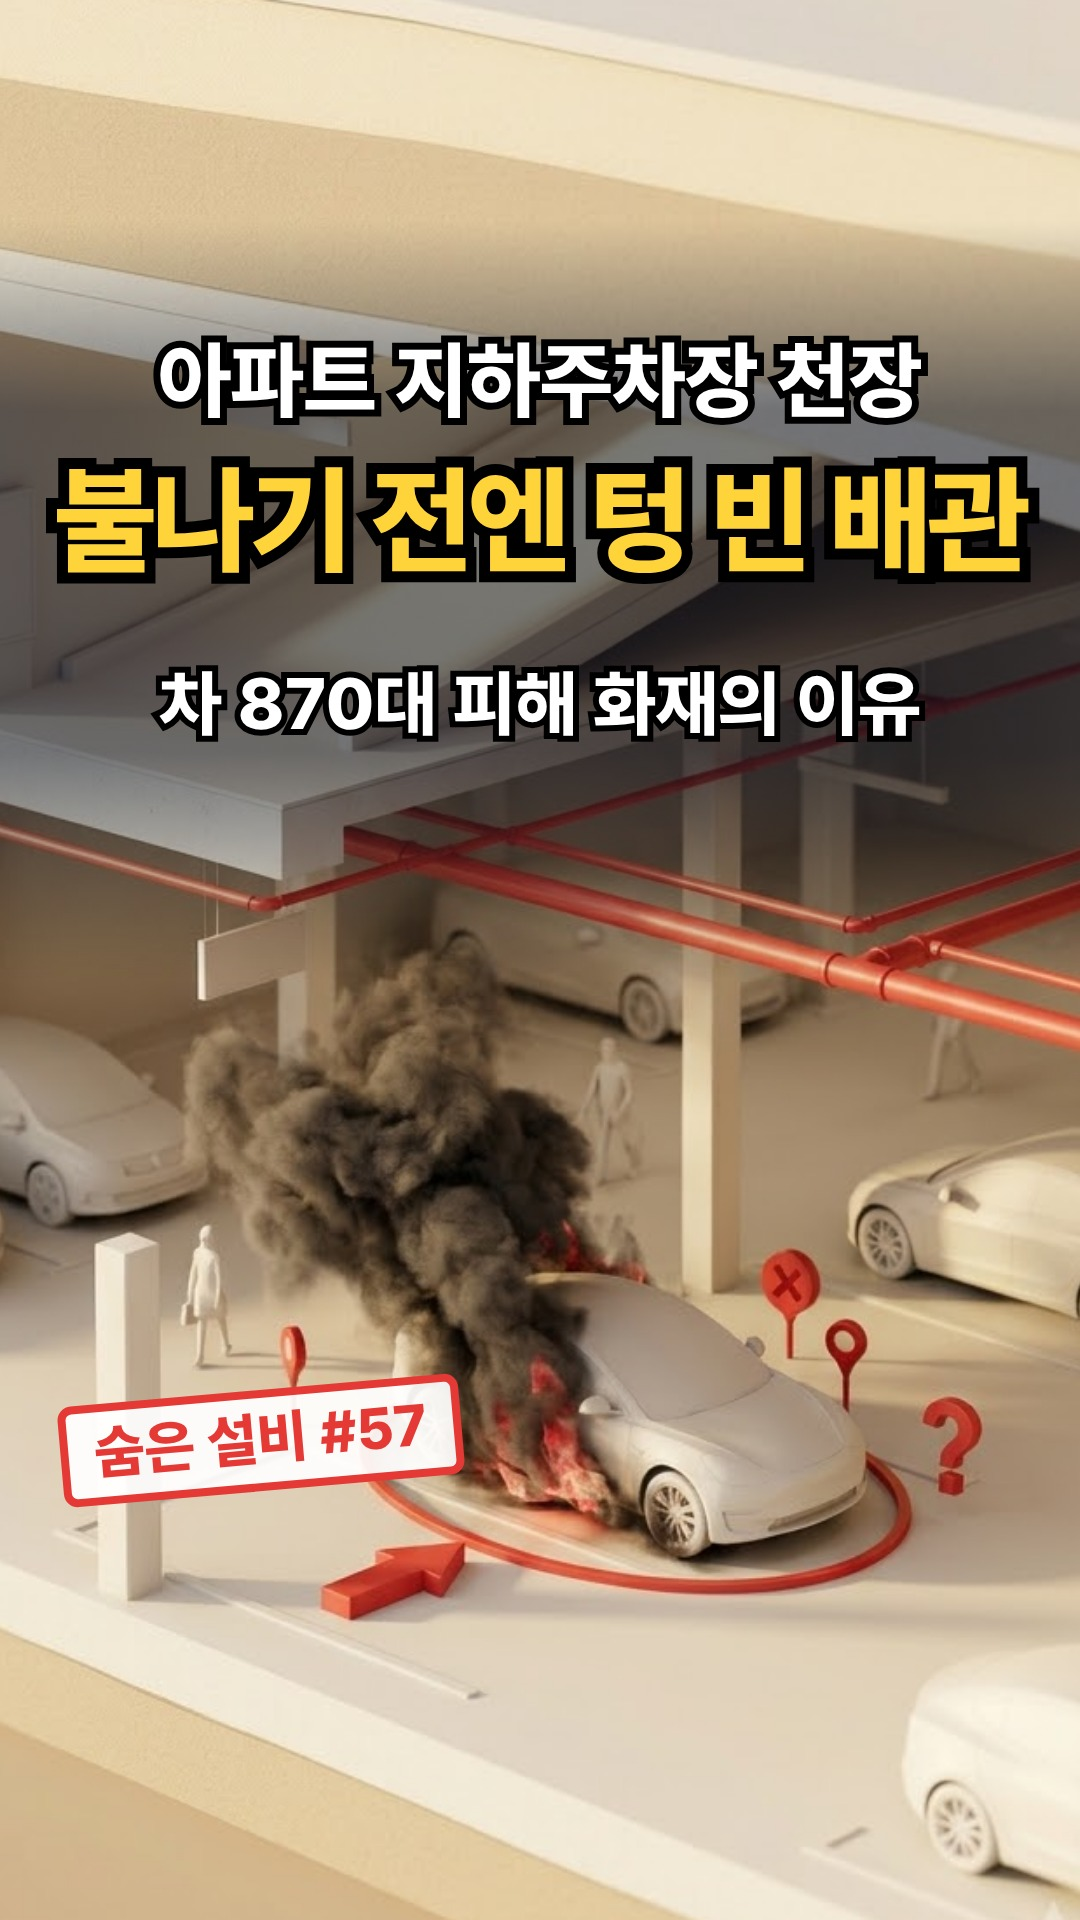
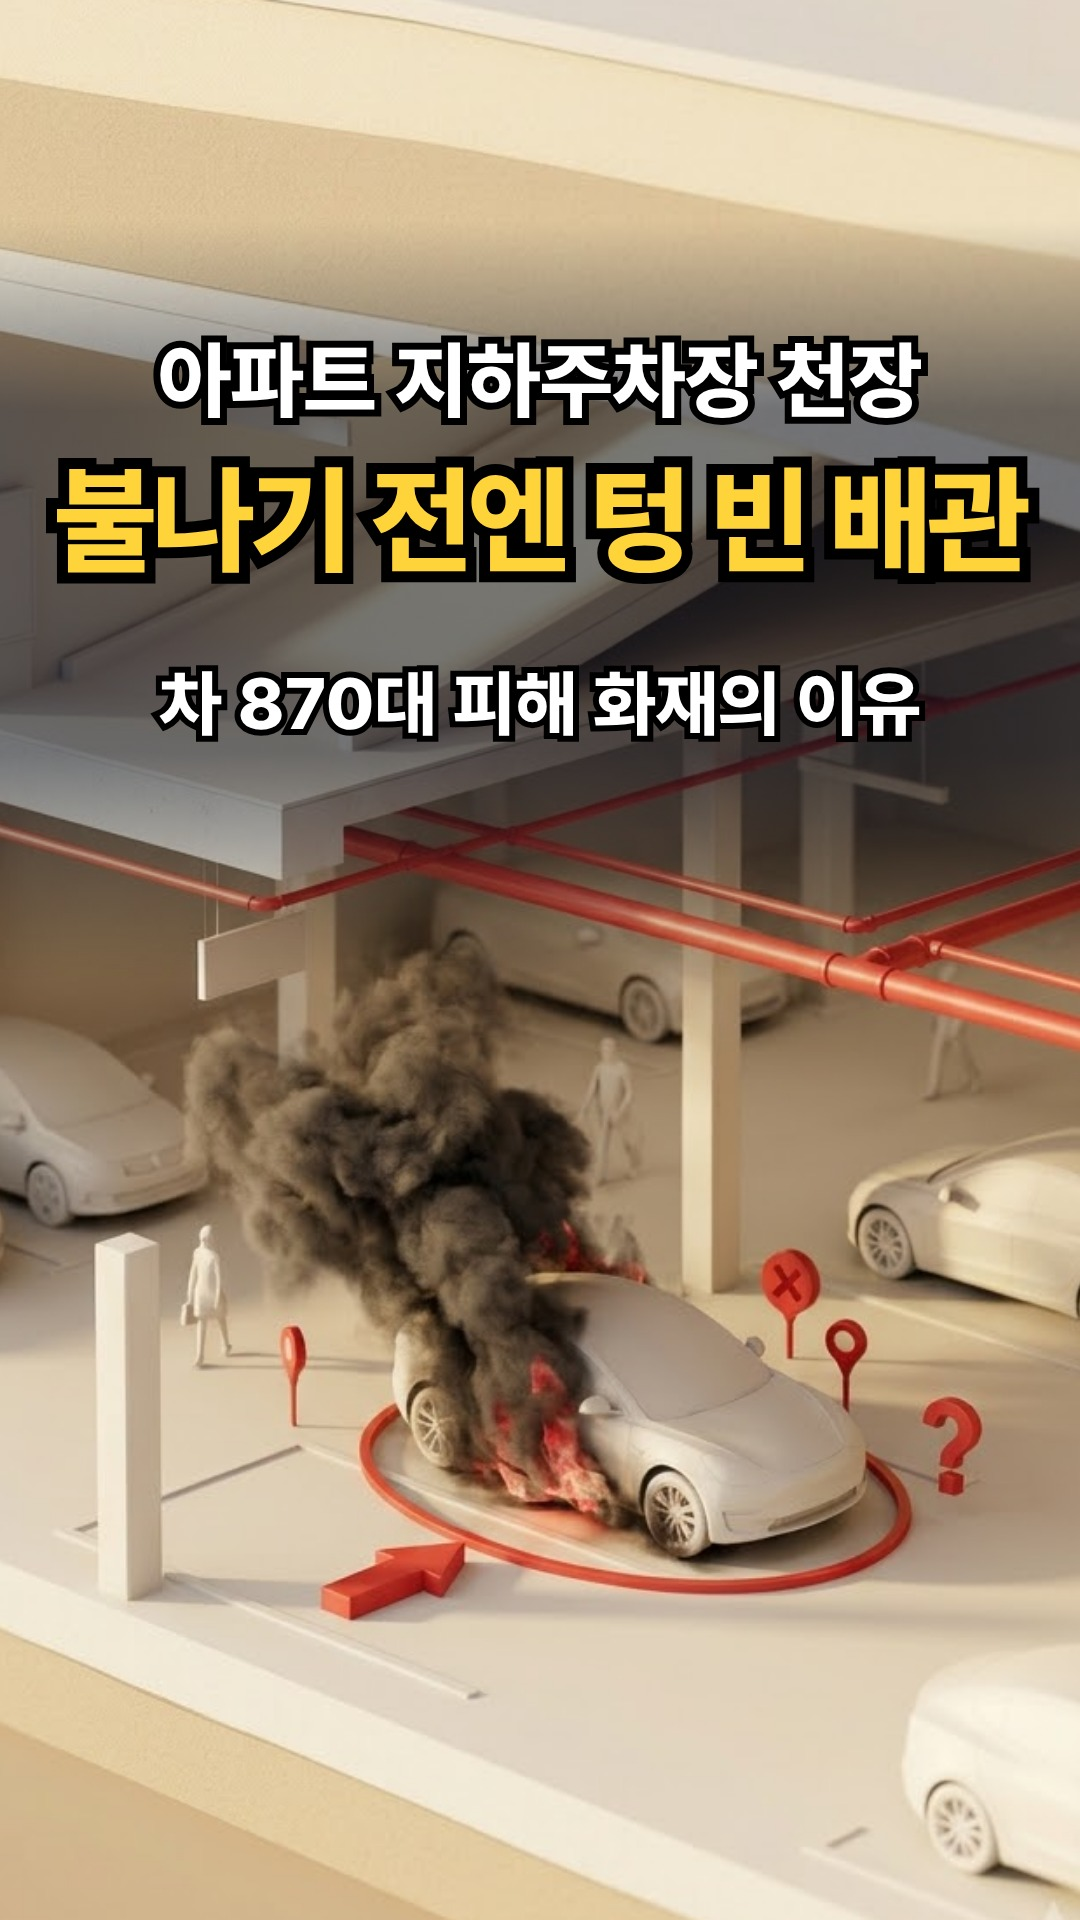
커버: '숨은 설비 #NN' 도장 뺌(대표이사), 57·58 커버 다시
Claude-Session: https://claude.ai/code/session_01F2RcoHJfc2PPjTHsUU3mWj

Changed region(s): [[0.0306, 0.7188, 0.4278, 0.8125]]

diff --git a/shorts/compose/template-2tan/cover_2tan.py b/shorts/compose/template-2tan/cover_2tan.py
@@ -1,5 +1,5 @@
 """채널 통일 커버(섬네일): python3 cover_2tan.py 편번호 그림.jpg "위 작은 줄(장소·대상)" "가운데 큰 줄(훅)" "아래 줄(궁금증)" 결과.jpg [그림 위치 x% y% 확대%]
-   규칙(11/4): 왼쪽 위 채널 로고, 위 흰 줄 → 노란 큰 줄 → 흰 줄, 아래 왼쪽 빨간 도장 "숨은 설비 #NN".
+   규칙(11/4): 왼쪽 위 채널 로고, 위 흰 줄 → 노란 큰 줄 → 흰 줄, 도장·번호 없음(11/4 대표이사 "숨은설비 #은 빼자").
    인스타 프로필 격자(3:4 가운데) 안에 글자가 다 들어가게 세로 300~1500px 안에 둔다. 1080×1920 jpg."""
 import sys, os, subprocess, tempfile, shutil
 nn, img, a, b, c, out = sys.argv[1:7]
@@ -21,7 +21,6 @@ body{{margin:0;width:1080px;height:1920px;overflow:hidden;background:#000}}
 .stamp{{position:absolute;left:60px;top:1390px;padding:6px 26px 10px;border:8px solid #E53935;border-radius:14px;background:rgba(255,255,255,.92);color:#E53935;font-family:P;font-size:58px;transform:rotate(-5deg)}}
 </style></head><body><div class="bg"></div><div class="shade"></div>
 <div class="t a">{a}</div><div class="t b">{b}</div><div class="t c">{c}</div>
-<div class="stamp">숨은 설비 #{nn}</div>
 <script>
 function fit(){{document.querySelectorAll('.t').forEach(e=>{{let fs=parseFloat(getComputedStyle(e).fontSize);const s=document.createElement('span');s.style.display='inline-block';s.innerHTML=e.innerHTML;e.innerHTML='';e.appendChild(s);while(s.getBoundingClientRect().width>1000&&fs>40){{fs-=4;e.style.fontSize=fs+'px';}}}});}}
 document.fonts.ready.then(fit);

diff --git a/shorts/produce/2TAN-MASTER.md b/shorts/produce/2TAN-MASTER.md
@@ -152,6 +152,6 @@ export GEMINI_API_KEY=…     # 영상 분석(gemini_video.py, 선택)
 ```
 python3 shorts/compose/template-2tan/cover_2tan.py NN 그림.jpg "위 작은 줄(장소·대상)" "가운데 노란 큰 줄(훅)" "아래 줄(궁금증)" shorts/compose/work/NN/cover.jpg [x% y% 확대%]
 ```
-- 모든 편 같은 틀: 흰 줄(장소) → **노란 큰 줄(훅, 한 줄)** → 흰 줄(궁금증), 아래 왼쪽 빨간 도장 **"숨은 설비 #NN"**(영상 속 도장과 같은 모양).
+- 모든 편 같은 틀: 흰 줄(장소) → **노란 큰 줄(훅, 한 줄)** → 흰 줄(궁금증). 번호 도장은 넣지 않는다(11/4).
 - 글자는 인스타 프로필 격자(3:4) 안(세로 300~1500px). 그림은 그 편에서 가장 센 장면(불·물·사람 행동).
 - 예: 57 "아파트 지하주차장 천장 / 불나기 전엔 텅 빈 배관 / 차 870대 피해 화재의 이유", 58 "충정로 KT 아현지사 땅 밑 / 소화기 1대뿐이던 통로 / 서울 5개 구 통신이 멈춘 이유".
